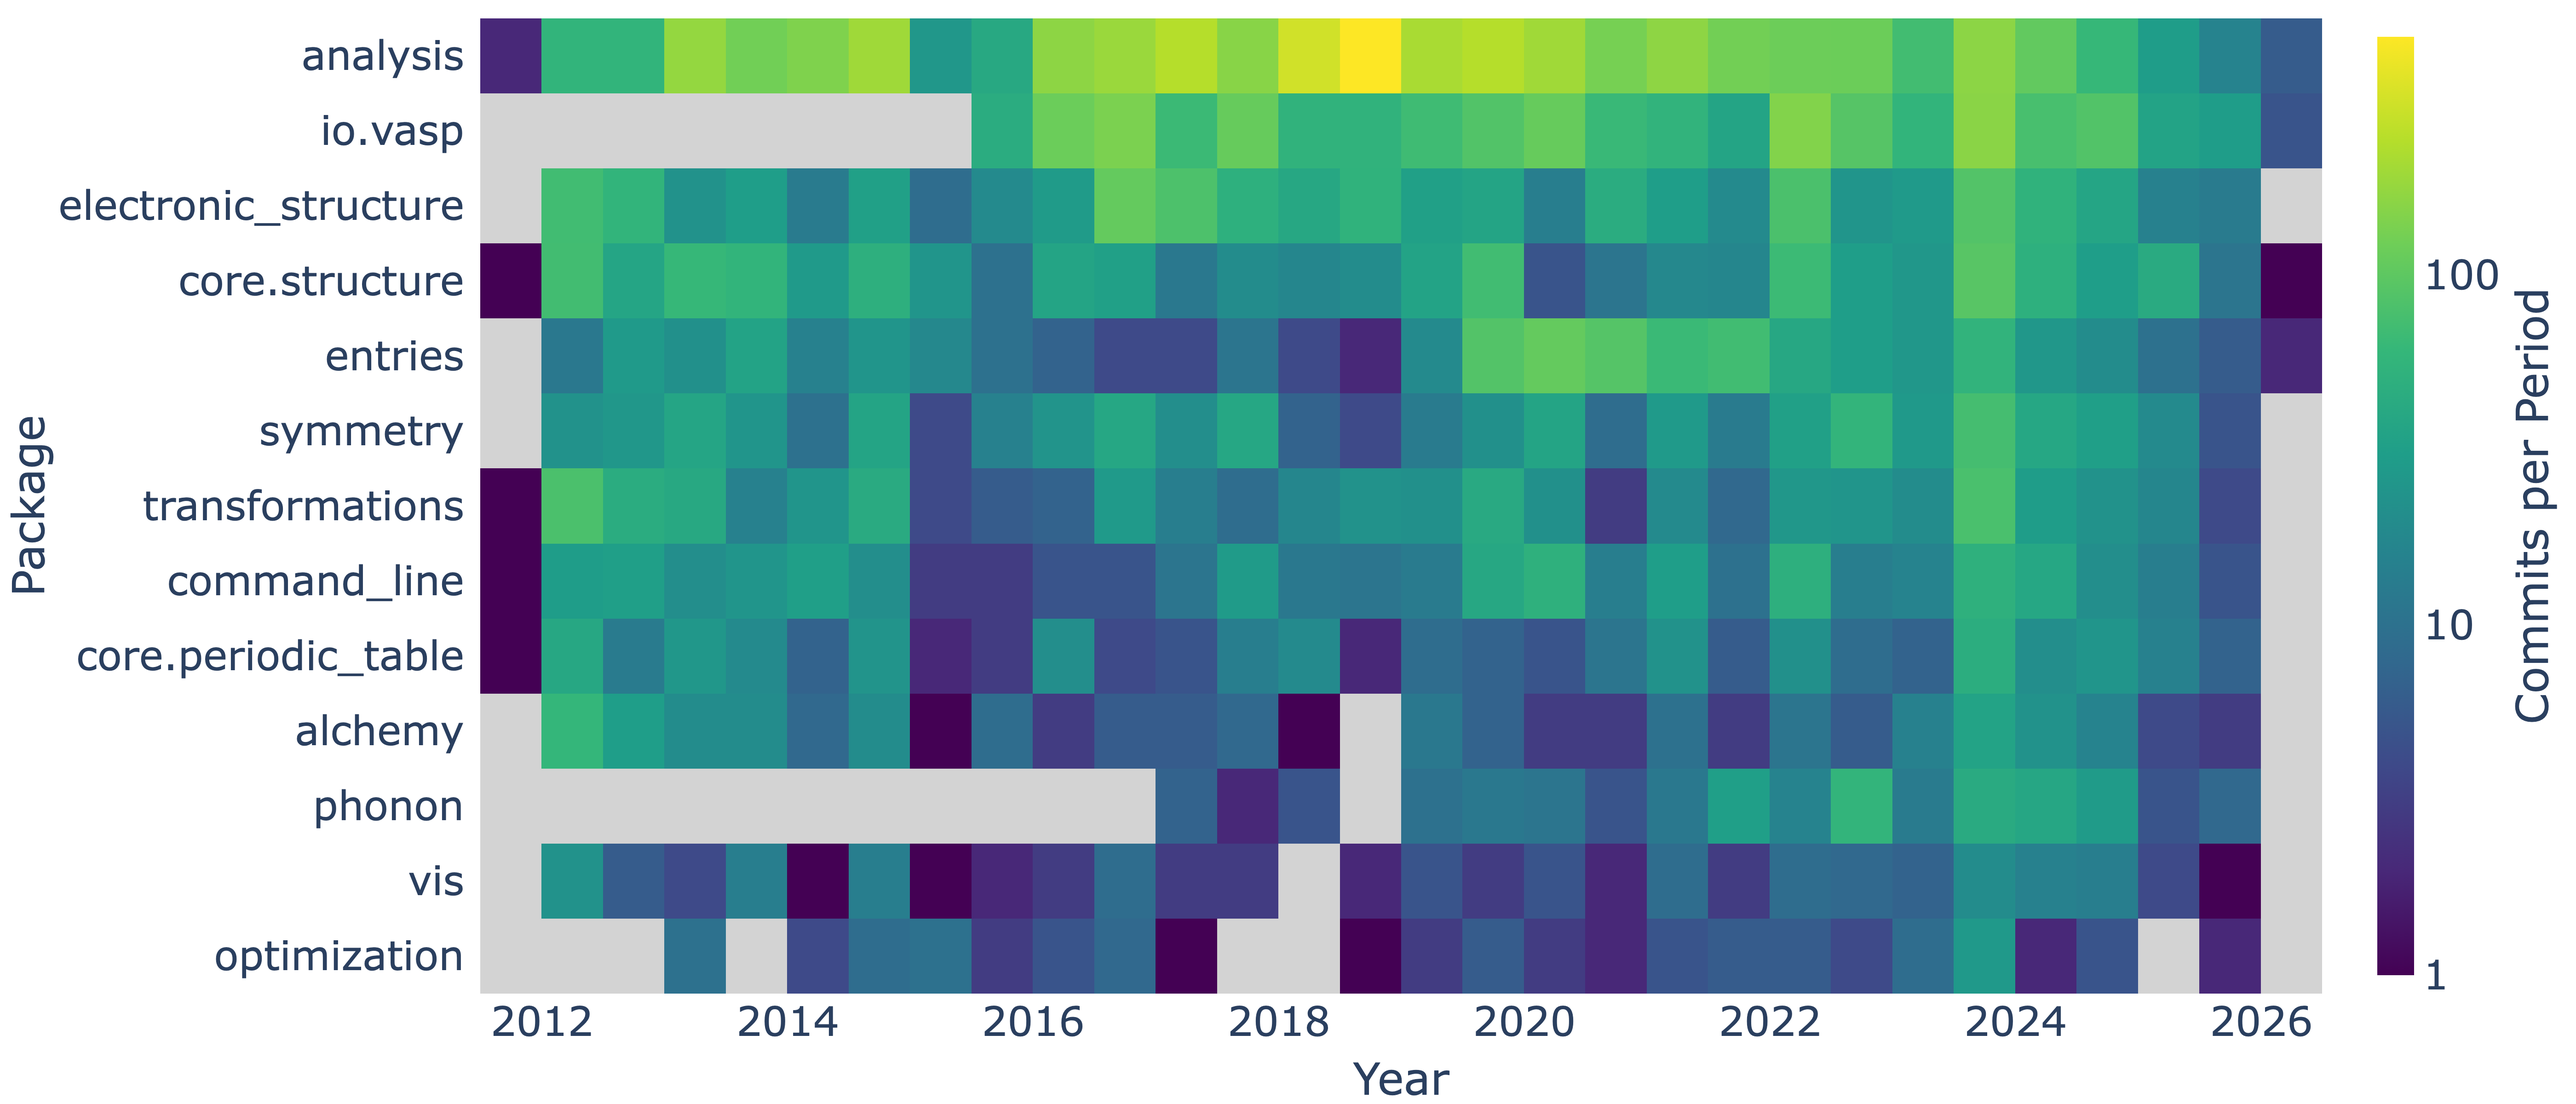
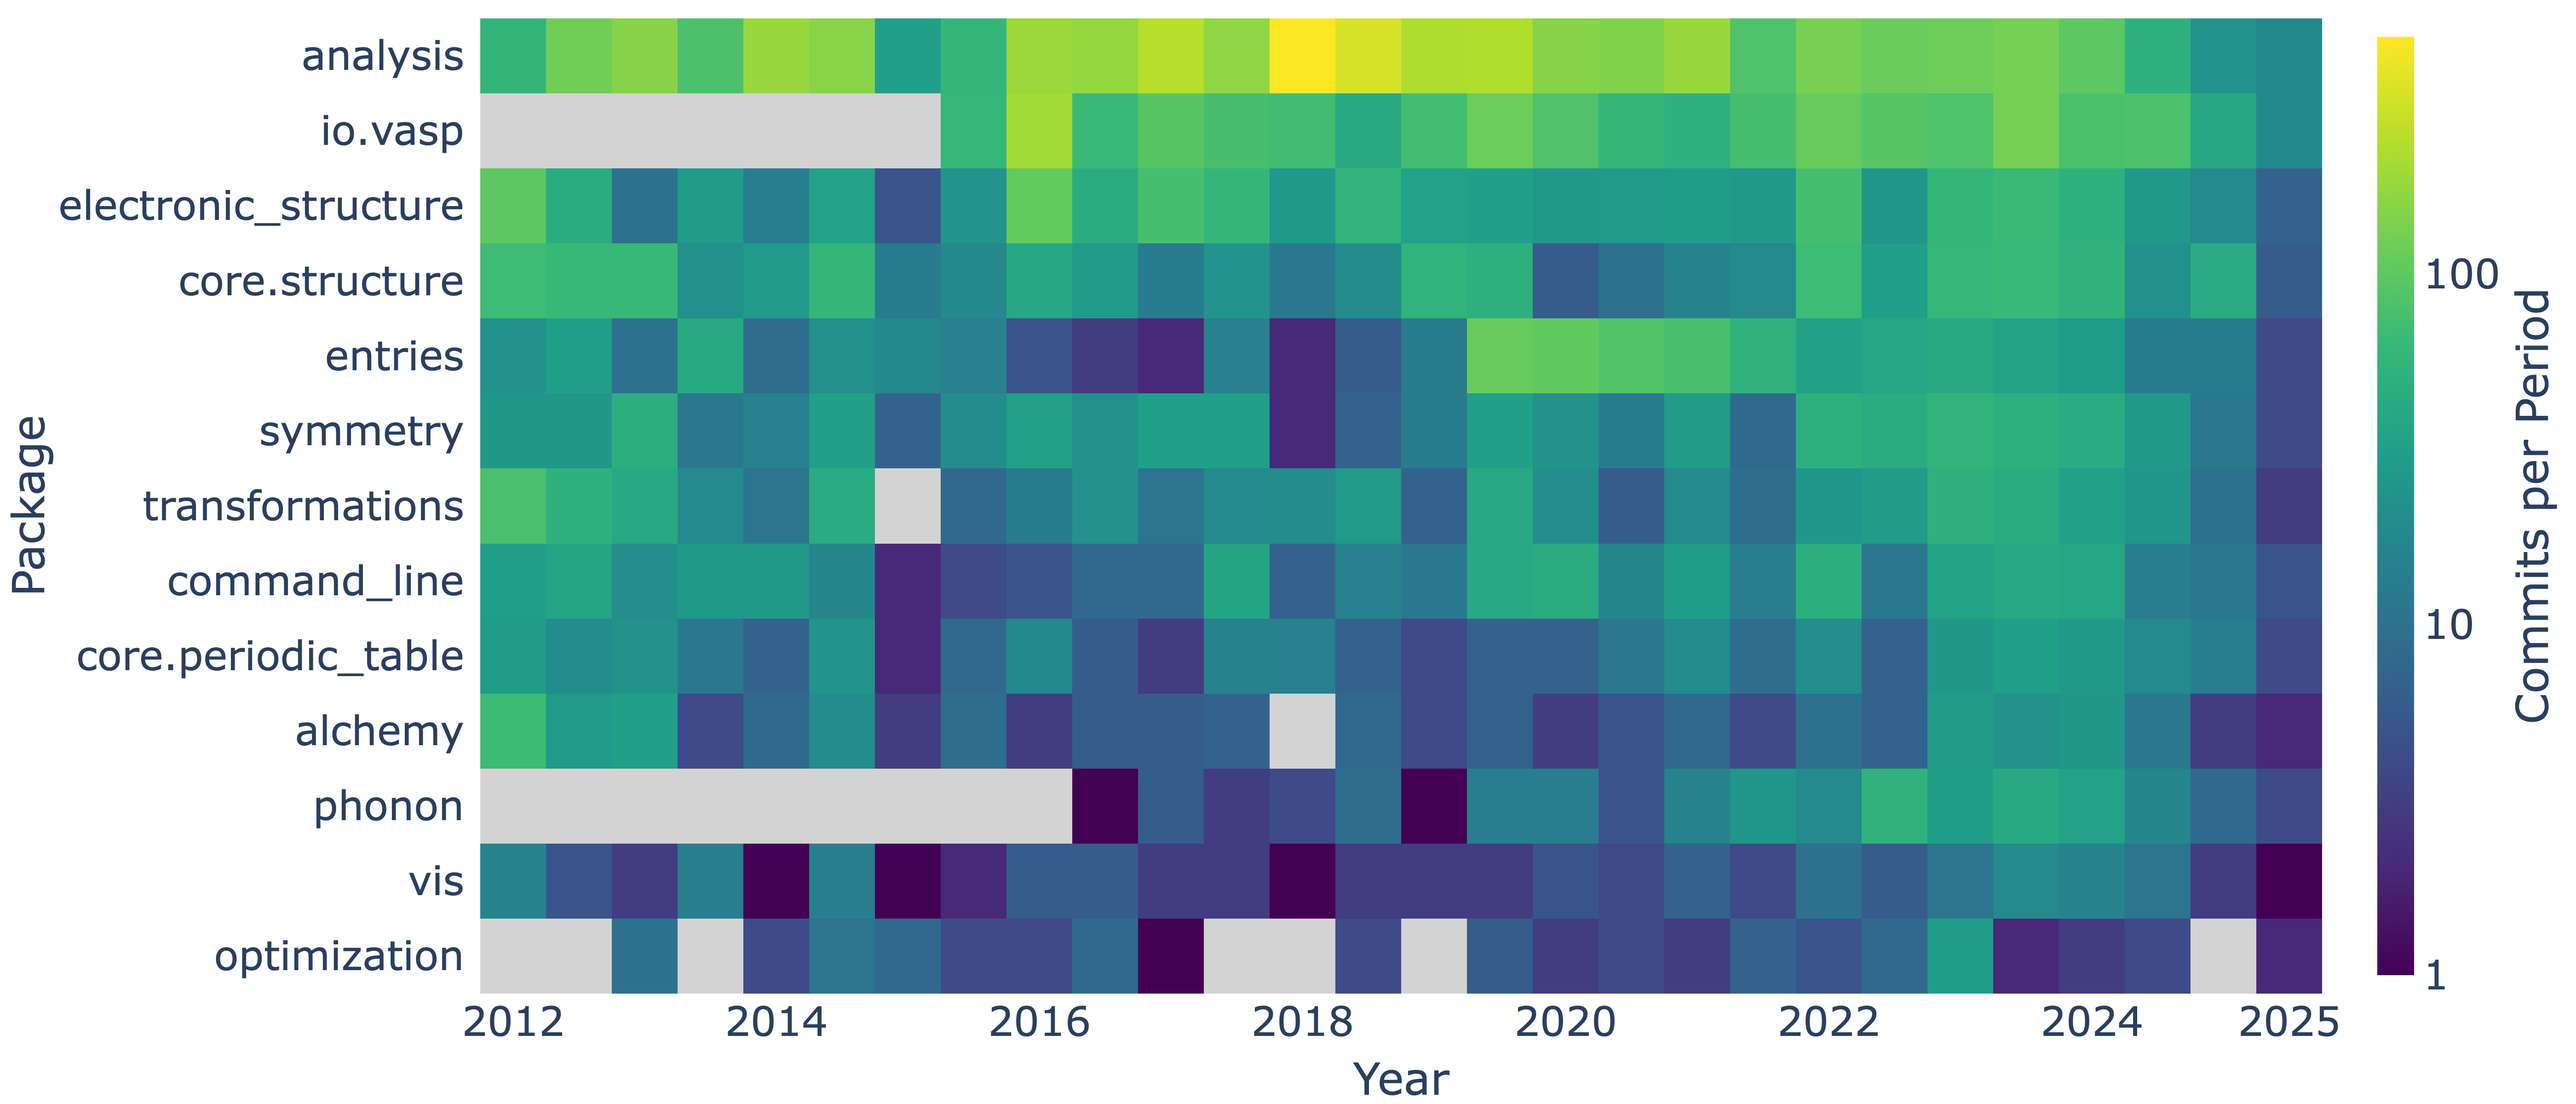
Make per package commit heatmap start from 2012 instead of 2011 October (#84)
* heatmap starts from 2012

* Fix heatmap calendar bins and tighten lint checks

Keep empty calendar half-years and enforce the 2012–2025 plotting window, correct history collection, and clarify the figure documentation with regression coverage.

Update lint hooks, enable additional correctness and file checks, resolve their findings, and preserve manual workflow triggers and isolated type-checker configuration.

---------

diff --git a/tests/test_commit_collectors.py b/tests/test_commit_collectors.py
@@ -49,29 +49,52 @@ def test_commit_records_end_at_headers_or_eof(
         assert frame[months].sum().tolist() == expected, metric
 
 
-def test_heatmap_reads_master_without_checkout(
-    tmp_path: Path, monkeypatch: pytest.MonkeyPatch
+@pytest.mark.parametrize("source", ["git", "cache"])
+def test_heatmap_calendar_bins_without_checkout(
+    tmp_path: Path, monkeypatch: pytest.MonkeyPatch, source: str
 ) -> None:
-    """Read the intended revision explicitly for both historical source layouts."""
+    """Keep empty calendar half-years and exclude dates outside 2012–2025."""
     commands: list[list[str]] = []
     images: list[str] = []
+    dates = [
+        "2011-12-31",
+        "2012-03-01",
+        "2012-06-30",
+        "2012-07-01",
+        "2012-12-31",
+        "2013-07-01",
+        "2025-12-31",
+        "2026-01-01",
+    ]
 
     def read_dates(
         command: list[str], **kwargs: object
     ) -> subprocess.CompletedProcess[str]:
         """Reject commands that could alter the supplied working tree."""
         commands.append(command)
-        assert command[:5] == ["git", "-C", str(tmp_path), "log", "master"]
-        return subprocess.CompletedProcess(
-            command, 0, stdout="2025-01-02\n2025-06-03\n"
+        assert command[:5] == ["git", "-C", str(tmp_path), "log", "main"]
+        flat_layout = command[-1].startswith("pymatgen/")
+        assert command[command.index("--since") + 1] == (
+            "2012-01-01T00:00:00Z" if flat_layout else "2024-06-01T00:00:00Z"
         )
+        assert command[command.index("--until") + 1] == (
+            "2024-06-01T00:00:00Z" if flat_layout else "2026-01-01T00:00:00Z"
+        )
+        output = "\n".join(dates[:6] if flat_layout else dates[6:])
+        return subprocess.CompletedProcess(command, 0, stdout=output)
 
     def save_image(figure: go.Figure, filename: str, **kwargs: object) -> None:
         """Record image export without rendering or changing the paper asset."""
         images.append(os.path.basename(filename))
 
     monkeypatch.chdir(tmp_path)
-    monkeypatch.setenv("PMG_REPO_PATH", str(tmp_path))
+    if source == "git":
+        monkeypatch.setenv("PMG_REPO_PATH", str(tmp_path))
+    else:
+        monkeypatch.delenv("PMG_REPO_PATH", raising=False)
+        pd.DataFrame(
+            {"analysis": 1}, index=pd.Index([date[:7] for date in dates], name="time")
+        ).to_csv(tmp_path / "_monthly_commits_per_package.csv")
     monkeypatch.setattr(subprocess, "run", read_dates)
     monkeypatch.setattr(go.Figure, "write_image", save_image)
     monkeypatch.setattr(go.Figure, "show", lambda *args, **kwargs: None)
@@ -79,5 +102,28 @@ def test_heatmap_reads_master_without_checkout(
         f"{ROOT}/fig_scripts/per_package_commit_heatmap/generate_heatmap.py",
         run_name="__main__",
     )
-    assert len(commands) == 2 * len(namespace["PACKAGES"])
+    assert len(commands) == (2 * len(namespace["PACKAGES"]) if source == "git" else 0)
     assert images == ["commits-per-package-heatmap.png"]
+    binned = namespace["df_binned"]
+    expected = [2, 2, 0, 1, *([0] * 23), 1]
+    for package in binned:
+        assert binned[package].sum() == sum(expected)
+        assert binned[package].tolist() == expected
+    assert binned.index.strftime("%Y-%m-%d").tolist() == [
+        f"{year}-{month_day}"
+        for year in range(2012, 2026)
+        for month_day in ["06-30", "12-31"]
+    ]
+    figure = namespace["fig"]
+    assert list(figure.data[0].x) == binned.index.strftime("%Y-%m").tolist()
+    assert figure.layout.xaxis.type == "category"
+    assert list(figure.layout.xaxis.ticktext) == [
+        "2012",
+        "2014",
+        "2016",
+        "2018",
+        "2020",
+        "2022",
+        "2024",
+        "2025",
+    ]

diff --git a/fig_scripts/per_package_commit_heatmap/generate_heatmap.py b/fig_scripts/per_package_commit_heatmap/generate_heatmap.py
@@ -18,7 +18,6 @@ import plotly.graph_objects as go
 
 COLORSCALE: str = "viridis"
 TICK_LABEL_FONTSIZE: int = 22
-PLOT_TITLE_FONTSIZE: int = 24
 XY_AXIS_CBAR_TITLE_FONTSIZE: int = 24
 
 PACKAGES: dict[str, str] = {
@@ -38,15 +37,12 @@ PACKAGES: dict[str, str] = {
     "entries": "entries",
 }
 
-BIN_MONTHS: int = 6  # bin width in months
+PLOT_START_DATE: str = "2012-01-01"
+PLOT_END_DATE: str = "2026-01-01"  # exclusive
 
 ROW_SORTING: Literal["total_num_of_commits", "chronology", "alphabetical"] = (
     "total_num_of_commits"
 )
-
-# Start/end identifiers (can be dates or commit hashes)
-START_COMMIT: str = "fa7f41d8bd769a04cca1f78242ebf072664c871d"
-END_COMMIT: str = "2026-01-01"
 
 # When pymatgen changed from flat to src layout
 # commit: 9100860d7d938560610bcfadd04923b53756548e
@@ -71,8 +67,16 @@ def run_git_cmd(args: list[str]) -> subprocess.CompletedProcess[str]:
 
 def get_git_dates(path_prefix: str, since: str, until: str) -> list[str]:
     """Dates (YYYY-MM-DD) of all non-merge commits touching path_prefix in [since, until]."""
-    flags = ["log", "master", "--no-merges", "--format=%ad", "--date=short"]
-    cmd = [*flags, "--since", since, "--until", until, "--", path_prefix]
+    flags = ["log", "main", "--no-merges", "--format=%ad", "--date=short"]
+    cmd = [
+        *flags,
+        "--since",
+        f"{since}T00:00:00Z",
+        "--until",
+        f"{until}T00:00:00Z",
+        "--",
+        path_prefix,
+    ]
     return run_git_cmd(cmd).stdout.strip().splitlines()
 
 
@@ -85,11 +89,11 @@ def get_monthly_commits_per_package() -> pd.DataFrame:
 
         # Flat layout (before June 2024)
         flat_path = f"pymatgen/{package}"
-        all_dates.extend(get_git_dates(flat_path, START_COMMIT, LAYOUT_SWITCH_DATE))
+        all_dates.extend(get_git_dates(flat_path, PLOT_START_DATE, LAYOUT_SWITCH_DATE))
 
         # Src layout (from June 2024 onward)
         src_path = f"src/pymatgen/{package}"
-        all_dates.extend(get_git_dates(src_path, LAYOUT_SWITCH_DATE, END_COMMIT))
+        all_dates.extend(get_git_dates(src_path, LAYOUT_SWITCH_DATE, PLOT_END_DATE))
 
         # Count commits per month
         dates = pd.to_datetime(all_dates, format="%Y-%m-%d")
@@ -111,8 +115,14 @@ else:
 
 df_git.index = pd.to_datetime(df_git.index, format="%Y-%m")
 
-# Resample into X-month bins
-df_binned = df_git.copy().resample(f"{BIN_MONTHS}ME").sum().rename_axis("time_binned")
+# A complete monthly grid enforces the plotting window and retains empty periods.
+# Anchor half-years in January, then label them by their June/December end dates.
+calendar_months = pd.date_range(
+    PLOT_START_DATE, PLOT_END_DATE, freq="MS", inclusive="left"
+)
+df_git = df_git.reindex(calendar_months, fill_value=0)
+df_binned = df_git.resample("6MS").sum().rename_axis("time_binned")
+df_binned.index += pd.offsets.MonthEnd(6)
 
 # Transpose to (package vs time)
 heatmap_data = df_binned.T
@@ -184,10 +194,15 @@ fig.add_heatmap(
     connectgaps=False,
 )
 
-# title = f"Commits per Package (log scale, every {BIN_MONTHS} months)"
-# fig.layout.title.update(text=title, x=0.5, font=dict(size=PLOT_TITLE_FONTSIZE))
+year_tick_vals = heatmap_data.columns[::4].tolist()
+if heatmap_data.columns[-1] not in year_tick_vals:
+    year_tick_vals.append(heatmap_data.columns[-1])
 fig.layout.xaxis.update(
     title=dict(text="Year", font=dict(size=XY_AXIS_CBAR_TITLE_FONTSIZE)),
+    type="category",
+    tickmode="array",
+    tickvals=year_tick_vals,
+    ticktext=[date[:4] for date in year_tick_vals],
     tickfont=dict(size=TICK_LABEL_FONTSIZE),
     showgrid=False,
 )

diff --git a/tests/test_coverage_treemap.py b/tests/test_coverage_treemap.py
@@ -56,7 +56,7 @@ def test_statement_weighting_and_zero_coverage() -> None:
 def test_invalid_coverage_counts(statements: int, covered: int) -> None:
     """Reject inconsistent reports rather than painting misleading percentages."""
     with pytest.raises(
-        ValueError, match="Invalid coverage counts for src/pymatgen/core.py"
+        ValueError, match=r"Invalid coverage counts for src/pymatgen/core\.py"
     ):
         coverage_nodes({"src/pymatgen/core.py": file_coverage(statements, covered)})
 

diff --git a/fig_scripts/pmg-api-usage-dependent-dependency/api-analyzer/tests/test_sankey.py b/fig_scripts/pmg-api-usage-dependent-dependency/api-analyzer/tests/test_sankey.py
@@ -24,7 +24,9 @@ def node_labels(fig: Figure, side: str) -> list[str]:
     xs = sorted({round(x, 3) for x in node.x})
     keep = xs[0] if side == "source" else xs[-1]
     placed = [
-        (y, lbl) for x, y, lbl in zip(node.x, node.y, node.label) if round(x, 3) == keep
+        (y, lbl)
+        for x, y, lbl in zip(node.x, node.y, node.label, strict=True)
+        if round(x, 3) == keep
     ]
     return [lbl for _y, lbl in sorted(placed)]
 

diff --git a/fig_scripts/contribution_over_time_plot/_retrieve_commit_info_over_time.py b/fig_scripts/contribution_over_time_plot/_retrieve_commit_info_over_time.py
@@ -109,7 +109,7 @@ contributor_id_map: dict[tuple[str, str], str] = {}
 next_id = 1
 ids: list[str] = []
 
-for name, email in zip(df["name"], df["email"]):
+for name, email in zip(df["name"], df["email"], strict=True):
     key: tuple[str, str] | None = None
     for existing_key in contributor_id_map:
         if name == existing_key[0] or email == existing_key[1]:

diff --git a/README.md b/README.md
@@ -47,8 +47,7 @@ to the code that uses them.
   dependent packages.
 - `pr-topics-over-time-stacked-bar.pdf`: annual pull requests in the pymatgen
   repository, categorized by theme.
-- `commits-per-package-heatmap.png`: pymatgen package-level commit activity over
-  time, aggregated into 6-month periods.
+- `commits-per-package-heatmap.png`: pymatgen package-level commit activity from 2012 through 2025, aggregated into calendar half-years (January–June and July–December).
 - `py-pkg-treemap-pymatgen-coverage.pdf`: pymatgen Python code structure and test coverage, with module size representing executable statements and color representing line coverage percentage from the same coverage.py report.
 - `pr-since-1st.pdf`: annual pymatgen pull requests grouped by contributor
   tenure since first pull request.
